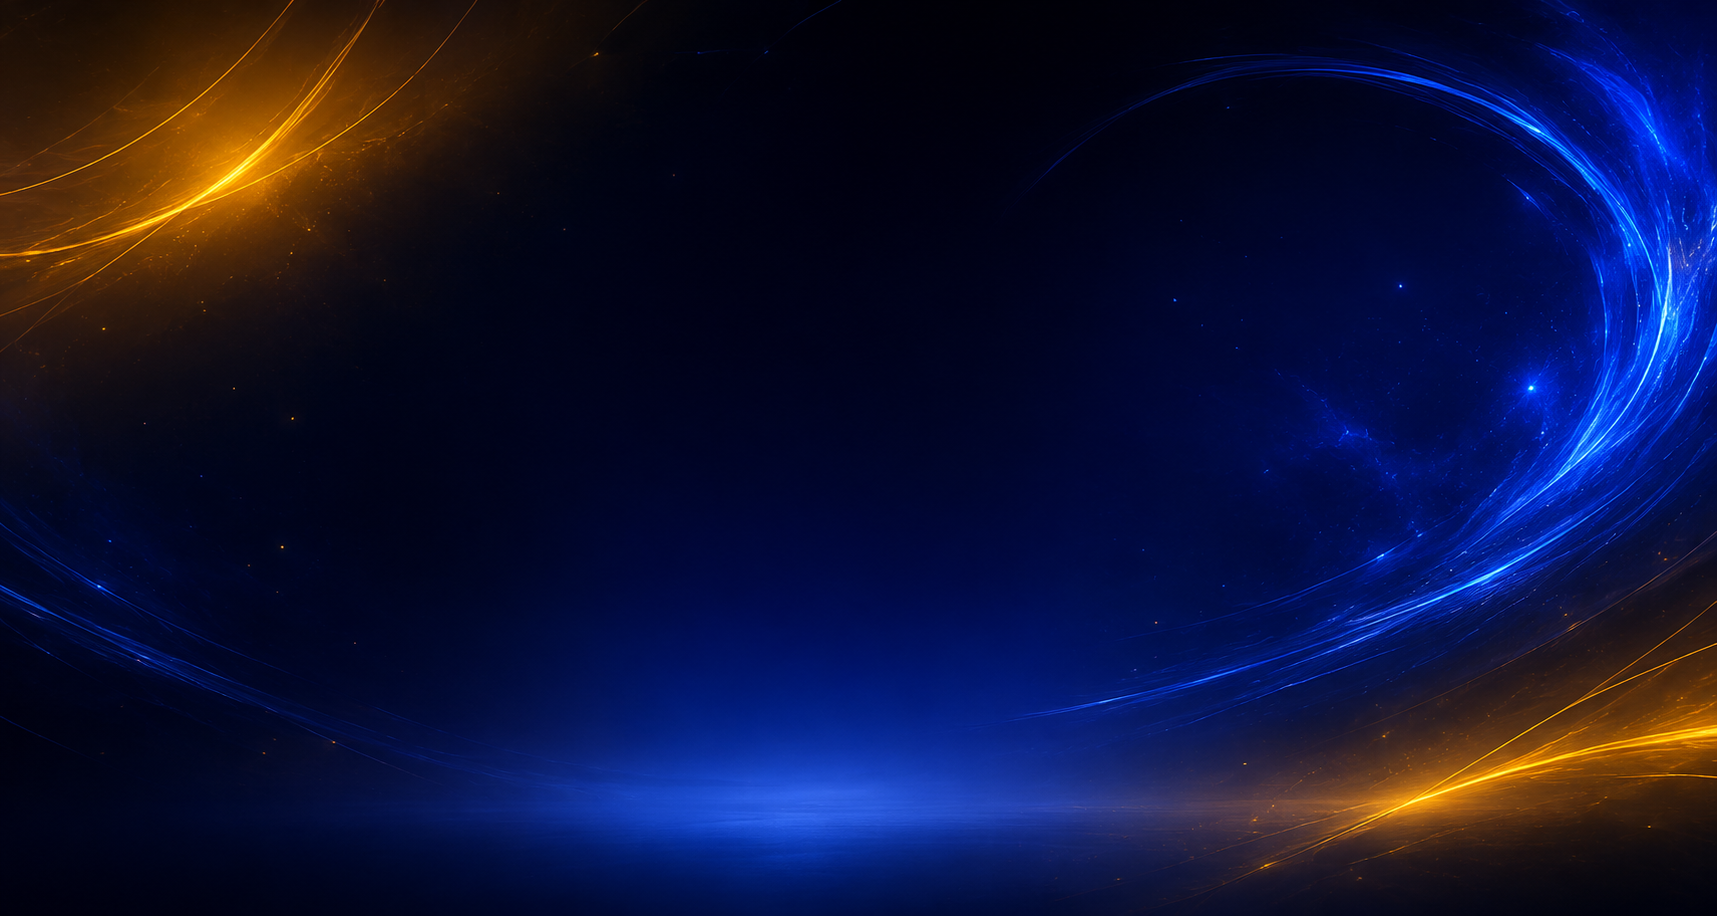
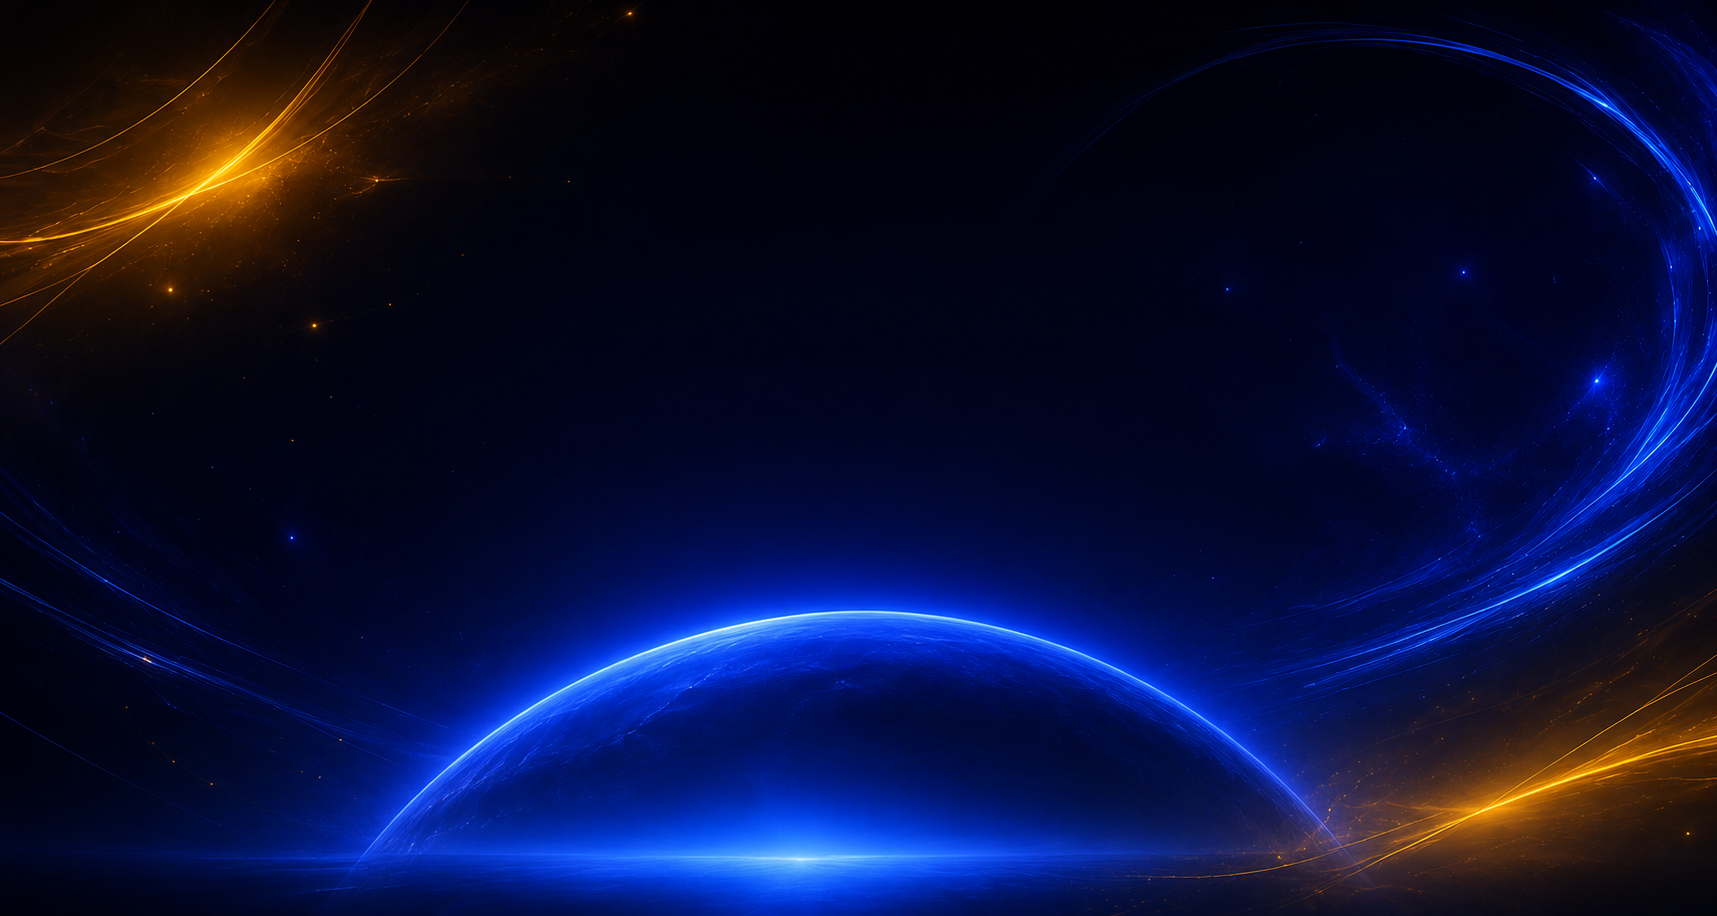
changing the writ up of the hero section for july x deep

diff --git a/app/layouts/Hero.tsx b/app/layouts/Hero.tsx
@@ -2,13 +2,19 @@
 
 // react-imports
 import { useEffect, useRef } from "react";
+// next imports
+import Image from "next/image";
 // icons-imports
 import { Target, Sparkles, Video } from "lucide-react";
 // gsap-imports
 import { gsap } from "gsap";
+// button for analytics import
 import RegisterLink from "@/components/RegisterLink";
-import heroImage from "@/public/images/hero-image.png";
+// layout component imports
 import Navbar from "./Navbar";
+// images imports
+import heroImage from "@/public/images/hero-image.png";
+import clock from "@/public/images/clock.png";
 
 const Hero = () => {
   // Animation Container References
@@ -101,12 +107,19 @@ const Hero = () => {
       style={{
         backgroundImage: `url(${heroImage.src})`,
         backgroundSize: "cover",
+        backgroundPosition: "center",
+        backgroundRepeat: "no-repeat",
+        backgroundColor: "var(--hero-bg-mid)",
+        backgroundBlendMode: "overlay",
       }}
-      className="w-full flex items-center justify-center flex-col gap-2 min-h-[85vh] relative overflow-hidden"
+      className="w-full flex items-center justify-center flex-col gap-2 min-h-[90vh] relative overflow-hidden"
     >
-      <Navbar />
       {/* Background glow matrix to fit the Uprix dark aesthetic */}
       <div className="absolute top-[20%] left-1/2 -translate-x-1/2 w-[60%] h-[40%] bg-black rounded-full blur-[130px] pointer-events-none" />
+      <div className="absolute bottom-0 left-0 right-0 h-64 bg-gradient-to-b from-transparent to-[#020617]" />
+      {/* <div className="absolute top-[50px] right-[10px] opacity-20">
+        <Image src={clock} alt="Clock" width={700} height={700} />
+      </div> */}
 
       {/* Brand Identity Display Header */}
       <div
@@ -119,8 +132,8 @@ const Hero = () => {
             - deep
           </h6>
         </span>
-        <p className="text-[10px] uppercase font-mono tracking-widest text-indigo-400">
-          June Edition
+        <p className="text-[10px] uppercase font-mono tracking-widest text-primary-yellow">
+          July Edition
         </p>
       </div>
 
@@ -131,30 +144,32 @@ const Hero = () => {
       >
         <Target className="text-indigo-400 animate-pulse" size={13} />
         <h6 className="text-[11px] tracking-wide text-gray-300 font-sans">
-          Open to everyone • Hosted live on Google Meet
+          Open to everyone • Hosted live on uprix space
         </h6>
       </span>
 
       <div className="w-full flex items-center justify-center flex-col px-4 mt-4 relative z-10">
         {/* Core Main Title */}
+        <p className="hidden md:block font-deep text-xs text-primary-yellow mb-2">
+          THE{" "}
+        </p>
         <h1
           ref={headlineRef}
-          className="hidden md:block w-full tracking-wider mx-auto font-bold text-3xl/tight md:text-5xl/tight md:w-10/12 lg:w-9/12 text-center text-primary-blue space-y-2 font-embrace"
+          className="hidden md:block w-full tracking-wider mx-auto font-bold text-3xl/tight md:text-5xl/tight md:w-10/12 lg:w-9/12 text-center text-primary-yellow space-y-2 font-embrace"
         >
-          Purpose Discovery
+          PROCASTNATION SOLUTION
           <span className="text-white tracking-tight inline-block mt-4">
-            Figuring Out What You Are Actually Supposed To Do
+            Stop Planning. Start Xecuting.
           </span>{" "}
         </h1>
+        <p className="font-deep text-xs text-primary-yellow mb-2">THE </p>
         <h1
           ref={headlineRef}
-          className="md:hidden w-full tracking-wider mx-auto font-bold text-[40px]/11 md:text-5xl md:w-10/12 lg:w-9/12 text-center text-primary-blue space-y-2 font-embrace"
+          className="md:hidden w-full tracking-wider mx-auto font-bold text-[25px]/9 text-center text-primary-yellow space-y-2 font-embrace"
         >
-          Purpose
-          <br />
-          Discovery
+          PROCASTNATION SOLUTION
           <span className="text-2xl tracking-tight text-white inline-block mt-4">
-            Figuring Out What You Are Actually Supposed To Do
+            Stop Planning. Start Xecuting.
           </span>{" "}
         </h1>
 
@@ -163,8 +178,8 @@ const Hero = () => {
           ref={subtextRef}
           className="md:w-8/12 lg:w-5/12 font-sans text-center text-sm/relaxed mt-5 text-gray-400"
         >
-          Confused about which path to take? Join us for an honest breakdown of
-          how to discover your purpose and, more importantly, how to execute it.
+          This is not a lecture; it is a raw, deep conversation designed to drag
+          you out of your head and push you into messy, profitable action.
         </p>
 
         {/* Action Registration Button */}
@@ -195,7 +210,7 @@ const Hero = () => {
         </div>
 
         {/* Features Meta Footnotes */}
-        <div
+        {/* <div
           ref={featuresRef}
           className="pt-8 flex flex-wrap justify-center gap-x-6 gap-y-3 font-mono text-[11px] text-gray-500"
         >
@@ -207,7 +222,7 @@ const Hero = () => {
             <Sparkles className="h-3.5 w-3.5 text-indigo-500" />
             <span>Actionable Roadmaps</span>
           </div>
-        </div>
+        </div> */}
       </div>
     </main>
   );

diff --git a/app/globals.css b/app/globals.css
@@ -51,7 +51,7 @@
 }
 
 :root {
-  --background: "#07017B";
+  --background: rgb(3, 2, 23);
   --foreground: oklch(0.985 0 0);
   --card: oklch(0.205 0 0);
   --card-foreground: oklch(0.985 0 0);
@@ -85,6 +85,9 @@
   --primary-blue: #0907d7;
   --secondary-blue: #07017b;
   --primary-yellow: #ffdd0a;
+  --hero-bg-dark: #010103;
+  --hero-bg-mid: rgb(21, 29, 50);
+  --hero-accent: #ffb84d;
 }
 
 .dark {
@@ -132,12 +135,18 @@
 
   html {
     scroll-behavior: smooth;
-    background: radial-gradient(
-      circle at 50% 0%,
-      #071533 0%,
-      #030713 50%,
-      #010103 100%
-    );
+    background:
+      radial-gradient(
+        circle at 12% 8%,
+        rgba(255, 184, 77, 0.06),
+        transparent 8%
+      ),
+      radial-gradient(
+        circle at 50% 0%,
+        var(--hero-bg-mid) 0%,
+        var(--hero-bg-dark) 60%
+      ),
+      linear-gradient(180deg, var(--hero-bg-dark) 60%, #000 100%);
     background-attachment: fixed;
     color: #f3f4f6;
     scroll-behavior: smooth;

diff --git a/app/layouts/Navbar.tsx b/app/layouts/Navbar.tsx
@@ -1,17 +1,13 @@
 // next-imports
-import Link from "next/link";
 import Image from "next/image";
-
-// icons-imports
-import { ChevronsRight } from "lucide-react";
 // images-imports
 import logo from "@/public/images/logo.png";
 import RegisterLink from "@/components/RegisterLink";
 
 const Navbar = () => {
   return (
-    <nav className="sticky top-3 z-50 w-10/12 md:w-9/12 rounded-[16px] mx-auto h-14 px-4 backdrop-blur-3xl border-b border-white/[0.06]">
-      <div className="w-full mx-auto flex items-center justify-between h-full">
+    <nav className="fixed top-3 left-0 right-0 z-50">
+      <div className="w-10/12 md:w-9/12 rounded-[16px] mx-auto h-14 px-4 backdrop-blur-3xl border-b border-white/[0.06] flex items-center justify-between">
         <Image
           src={logo}
           width={80}

diff --git a/app/page.tsx b/app/page.tsx
@@ -4,12 +4,14 @@ import Audience from "./layouts/Audience";
 import Focus from "./layouts/Focus";
 import Footer from "./layouts/Footer";
 import Hero from "./layouts/Hero";
+import Navbar from "./layouts/Navbar";
 import Schedule from "./layouts/Schedule";
 import Speaker from "./layouts/Speaker";
 
 const page = () => {
   return (
     <main className="relative text-white min-h-screen">
+      <Navbar />
       <Hero />
       <About />
       <Focus />
